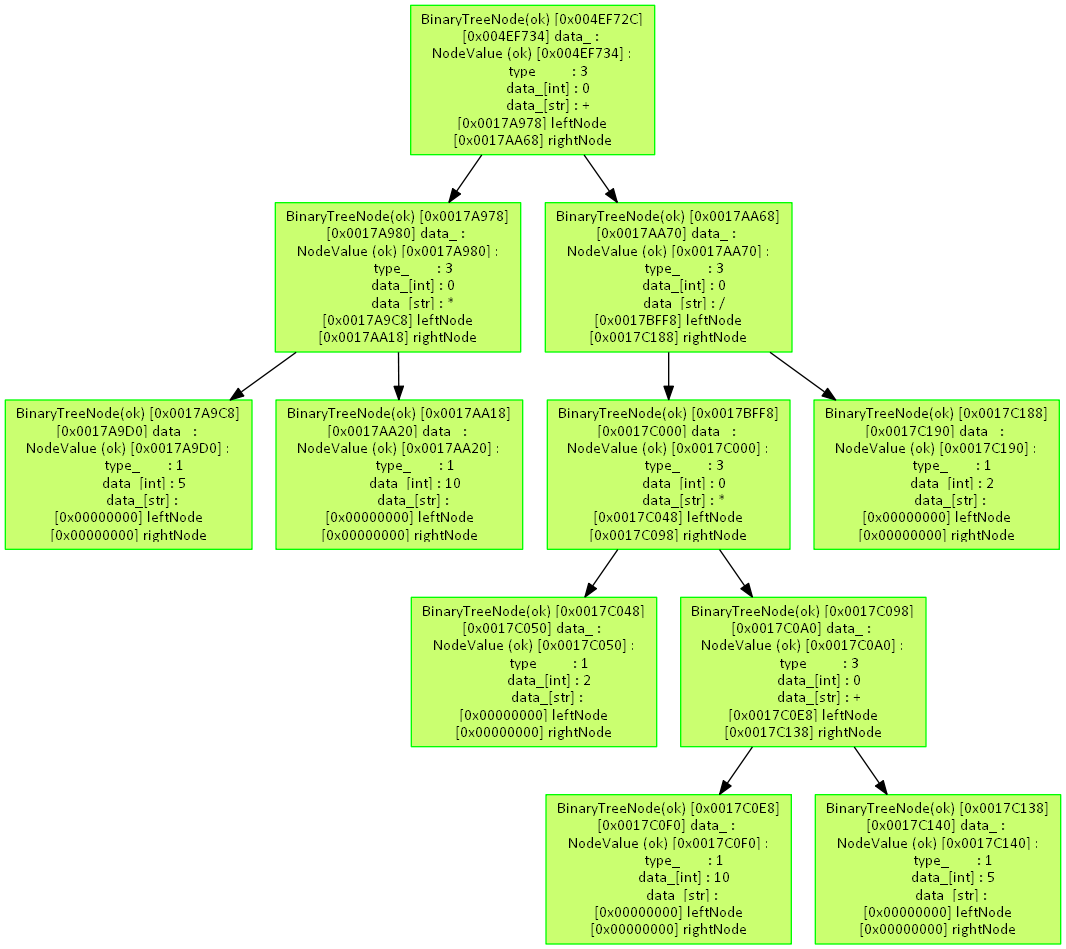
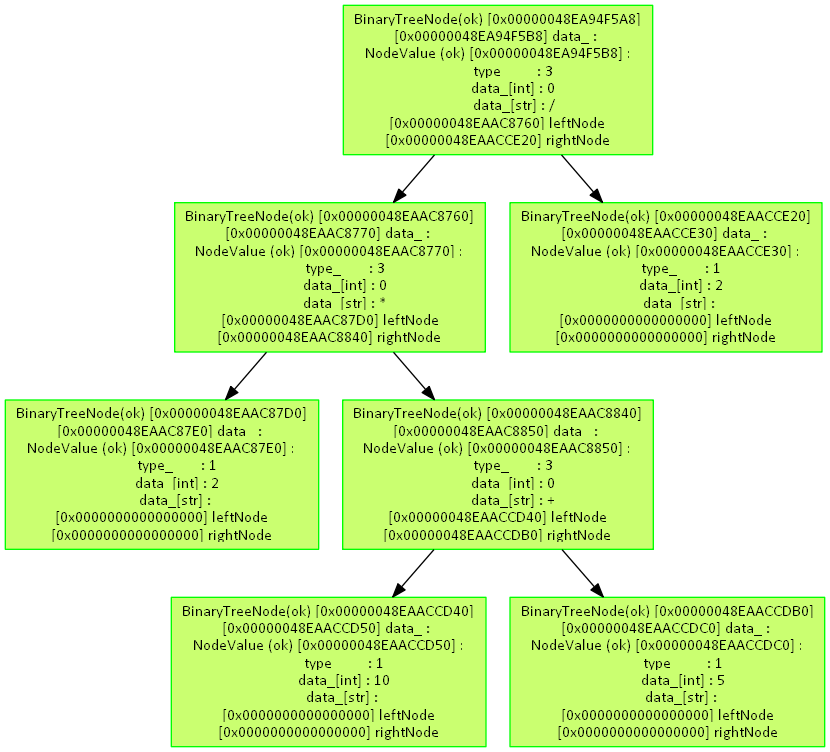
In case of emergency

diff --git a/TechnoTrack/Include/BinaryTree.h b/TechnoTrack/Include/BinaryTree.h
@@ -22,7 +22,10 @@ public:
 
 	BinaryTreeNode *GetLeftNode();
 	BinaryTreeNode *GetRightNode();
-	NodeValue &GetValue();
+	NodeValue &GetValue()
+	{
+		return data_;
+	}
 
 	void InsertLeft(BinaryTreeNode &leftBinaryTreeNode);
 	void InsertLeft(BinaryTreeNode *leftBinaryTreeNode);
@@ -152,21 +155,13 @@ bool BinaryTreeNode::HaveChild() const
 
 BinaryTreeNode *BinaryTreeNode::GetLeftNode()
 {
-	assert(HaveLeftChild());
 	return leftNode_;
 }
 
 BinaryTreeNode *BinaryTreeNode::GetRightNode()
 {
-	assert(HaveRightChild());
 	return rightNode_;
 }
-
-NodeValue &BinaryTreeNode::GetValue()
-{
-	return data_;
-}
-
 
 void BinaryTreeNode::InsertLeft(BinaryTreeNode *leftBinaryTreeNode)
 {
@@ -209,7 +204,7 @@ void ConvertVGtoPNG(char *logPNGname)
 	strcpy_s(fullOutPNGname, 40, logPNGname);
 	strcat_s(fullOutPNGname, 40, ".png");
 
-	fprintf(nowBat, "D:\\graphviz-2.38\\release\\bin\\dot ");
+	fprintf(nowBat, "E:\\Graphviz2.38\\bin\\dot ");
 	fprintf(nowBat, "-Tpng \"%%CD%%\\Logs\\BinaryTree\\%s\" ", fullInPNGname);
 	fprintf(nowBat, "   -o \"%%CD%%\\Logs\\BinaryTree\\%s\" \n", fullOutPNGname);
 

diff --git a/TechnoTrack/Tests/BinaryTree_TEST.cpp b/TechnoTrack/Tests/BinaryTree_TEST.cpp
@@ -4,16 +4,17 @@
 #include "../Include/BinaryTree.h"
 
 
+#incl
 int main()
 {
-	typedef BinaryTreeNode Node;////////brbtrgtrgtrhtrrtg
+	typedef BinaryTreeNode Node;
 
 	
-	Node t1(NodeValue(NUMBER, 5)), t2(NodeValue(NUMBER, 10)), t3(NodeValue(NUMBER, 2));
+	Node t1(NodeValue(NUMBER, 5)), t2(NodeValue(VARIABLE, "x")), t3(NodeValue(NUMBER, 2));
 	
-	Node root(t1*t2 + t3*(t2 + t1)/t3);
-	
-	//root.DumpToPNG("test4");
+	//Node root(t3*(t2 + t1)/t3);
+	d
+	//root.DumpToPNG("test7");
 	
 	system("pause");/////hyumoi
 	return 0;

diff --git a/TechnoTrack/Include/D.h b/TechnoTrack/Include/D.h
@@ -1,0 +1,26 @@
+#pragma once
+
+#include "BinaryTree.h"
+#include "NodeValue.h"
+
+
+BinaryTreeNode& d(BinaryTreeNode& tree)
+{
+	if (tree.GetValue().type_ == NUMBER)
+	{
+		tree.GetValue().intData_ = 0;
+		tree.GetValue().strData_[0] = '0';
+		tree.GetValue().strData_[1] = '\0';
+		return tree;
+	} 
+	else if (tree.GetValue().type_ == VARIABLE)
+	{
+		tree.GetValue().type_ = NUMBER;
+		tree.GetValue().intData_ = 1;
+		tree.GetValue().strData_[0] = '1';
+		tree.GetValue().strData_[1] = '\0';
+		return tree;
+	}
+
+}
+
